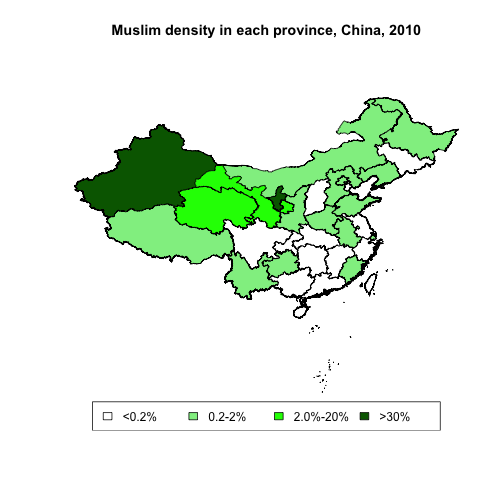
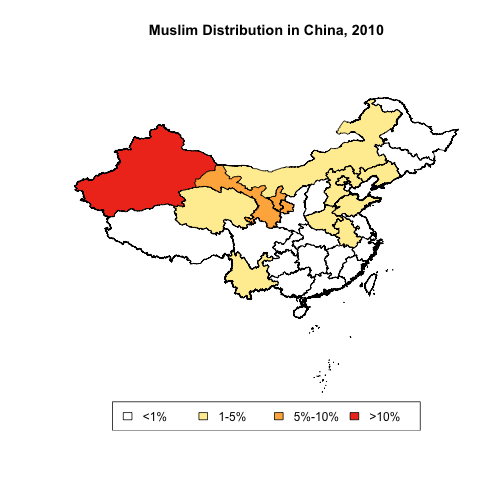
re-plot China map

diff --git a/_posts/2015-10-30-China-map-by-provinces.md b/_posts/2015-10-30-China-map-by-provinces.md
@@ -1,0 +1,140 @@
+---
+layout: post
+title: “Plotting China Map by Provinces”
+author: "Jian Jin"
+modified: 2015-10-30
+---
+
+
+
+A friend asked me to plot Muslim distribution in China for his presentation on "History and Culture of Chinese Muslims". Well, what a great opportunity to learn map visualization! 
+
+It begins with Data [source](http://www.360doc.com/content/14/0316/11/11971456_360980940.shtml). Oh messy messy data...
+
+
+Here's how the clean data looked like.
+
+~~~
+##       Province Province_en Density_Muslim Distribution_Muslim
+## 1       北京市     Beijing           1.76         0.011605416
+## 2       天津市     Tianjin           0.20         0.008413926
+## 3       河北省       Hebei           0.82         0.026353965
+## 4       山西省      Shanxi           0.20         0.003046422
+## 5 内蒙古自治区   Neimenggu           0.91         0.010203095
+## 6       辽宁省    Liaoning           0.64         0.012911025
+##   Distribution_category Density_category
+## 1                     1                2
+## 2                     0                0
+## 3                     1                1
+## 4                     0                0
+## 5                     1                1
+## 6                     1                1
+~~~
+
+### import libraries
+
+```r
+library(maps)
+library(mapdata)
+library("maptools")
+```
+
+
+GPS data, contained in ".shp" file, provides information on map polygons. ".shp" file can be read using R package `maptools`. Download [GPS data on China provinces](http://cos.name/wp-content/uploads/2009/07/chinaprovinceborderdata_tar_gz.zip) and unzip it into your working directory. Thank [Yihui](http://yihui.name/cn/2007/09/china-map-at-province-level/) for researching data sources. 
+
+### read .shp file
+
+{% highlight r %}
+x=readShapePoly('bou2_4p.shp')
+{% endhighlight %}
+
+
+`x@data$NAME` gives province names. I have to convert the encoding for normal display. Don't worry about it if yours' look good naturally.
+
+~~~r
+x@data$NAME <- iconv(x@data$NAME, from = 'CP936', to = 'UTF-8')
+~~~
+
+
+Before assigning colors to provinces (polygons) to map the data, I used `RColorBrewer` **to choose colors of gradient scales** representing variations in data.
+
+
+~~~r
+# more colors: http://www.r-bloggers.com/color-palettes-in-r/
+library(RColorBrewer)
+mypalette_density<-brewer.pal(3,"Greens")
+mypalette_distribution<-brewer.pal(3,"YlOrRd")
+~~~
+
+In the first figure, color shades corresponds to Muslim density for each province. In the second figure, color shades corresponds to Muslim distribution across China. I created `color code dataframes` in which colors shades I chose corresponded to designated category of density (or distribution). Merge the `color code dataframes` with raw data by designated category will allow us to generate new data frames in which color codes corresponded to each provinces.
+
+~~~r
+densityColorCode <- data.frame(Density_category = c(0:3), 
+                        Density_color = c("white", mypalette_density),
+                        stringsAsFactors = FALSE)
+
+density_color_df <- merge(Muslim_population, 
+                  densityColorCode, 
+                  by = "Density_category")
+
+distributionColorCode <- data.frame(Distribution_category = c(0:3),
+                                     Distribution_color = c("white",mypalette_distribution),
+                                    stringsAsFactors = FALSE)
+
+
+distribution_color_df <- merge(Muslim_population, distributionColorCode, by = "Distribution_category")
+~~~
+
+This function is used to assign color to provinces.
+~~~r
+# Function credit: Yixuan
+getColor=function(mapdata,provname,provcol,othercol)
+{
+	f=function(x,y) ifelse(x %in% y,which(y==x),0)
+	colIndex=sapply(mapdata@data$NAME,f,provname)
+	fg=c(othercol,provcol)[colIndex+1]
+	return(fg)
+}
+~~~
+
+Now let's plot the map! `x` is our map data which tells R about province polygon information. `col` assigns colors to polygons. 
+
+#### plot Muslim density for each province
+
+~~~r
+plot(x, 
+     col=getColor(x, density_color_df$Province, density_color_df$Density_color, "white"), 
+     xlab="",ylab="")
+
+title("Muslim density in each province, China, 2010")
+leg.txt <- c("<0.2%", "0.2-1%", "1.0%-5%", ">5%")
+legend("bottom", leg.txt, horiz = TRUE, fill = densityColorCode$Density_color)
+~~~
+
+![plot of chunk unnamed-chunk-6](figure/unnamed-chunk-6-1.png) 
+
+
+#### plot distribution of Muslim population acrss China
+
+~~~r
+plot(x,
+     col=getColor(x, 
+                  distribution_color_df$Province, 
+                  distribution_color_df$Distribution_color, 
+                  "white"), 
+     xlab="",ylab="")
+
+title("Muslim Distribution in China, 2010")
+leg.txt <- c("<1%", "1-5%", "5%-10%", ">10%")
+legend("bottom", leg.txt, horiz = TRUE, 
+       fill = distributionColorCode$Distribution_color)
+~~~
+
+![plot of chunk unnamed-chunk-7](figure/unnamed-chunk-7-1.png) 
+
+
+Now we have our maps! Have fun playing with map data! 
+
+#### additional resources:
+
+This [tutorial](http://bcb.dfci.harvard.edu/~aedin/courses/R/CDC/maps.html) introduced using both map and ggmap to visualize map data in R. 
